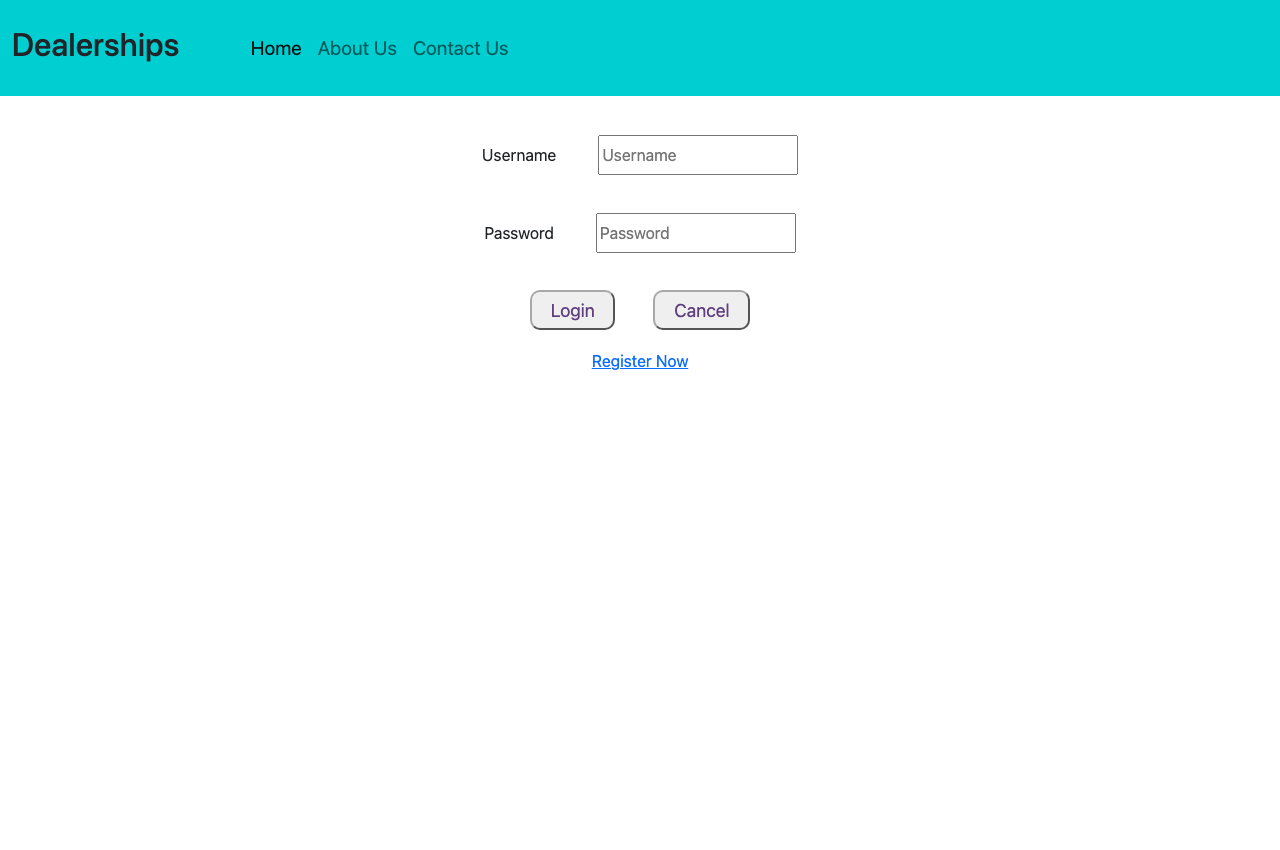
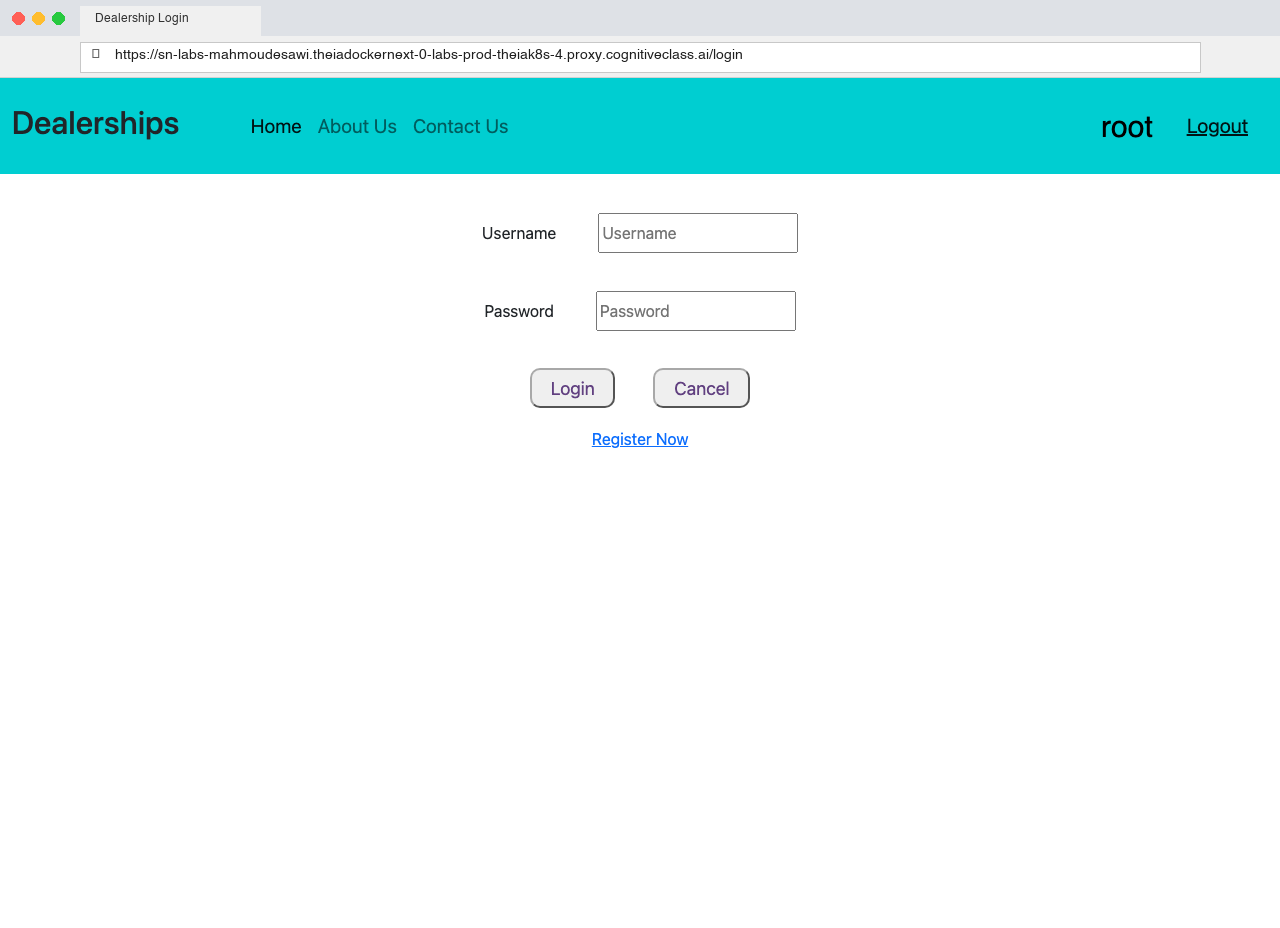
Update all evaluation text files and screenshots with browser address bars

Changed region(s): [[0.0, 0.0, 1.0, 0.2141], [0.375, 0.2447, 0.625, 0.4894]]

diff --git a/wrap_in_browser_window.py b/wrap_in_browser_window.py
@@ -1,0 +1,172 @@
+from playwright.sync_api import sync_playwright
+from PIL import Image, ImageDraw, ImageFont
+import os
+
+def create_browser_window(input_path, url_text, title_text, output_path):
+    img = Image.open(input_path)
+    width, height = img.size
+
+    tab_height = 36
+    address_height = 42
+    total_header_height = tab_height + address_height
+
+    new_img = Image.new("RGB", (width, height + total_header_height), (240, 240, 240))
+    draw = ImageDraw.Draw(new_img)
+
+    # 1. Top Tab Bar
+    draw.rectangle([0, 0, width, tab_height], fill=(222, 225, 230))
+
+    # Control buttons (Mac style)
+    draw.ellipse([12, 12, 24, 24], fill=(255, 95, 86))   # Red
+    draw.ellipse([32, 12, 44, 24], fill=(255, 189, 46))  # Yellow
+    draw.ellipse([52, 12, 64, 24], fill=(39, 201, 63))   # Green
+
+    # Active Tab
+    tab_left = 80
+    tab_right = 260
+    draw.rectangle([tab_left, 6, tab_right, tab_height], fill=(240, 240, 240))
+
+    try:
+        font_sm = ImageFont.truetype("Helvetica", 12)
+        font_url = ImageFont.truetype("Helvetica", 14)
+    except:
+        font_sm = ImageFont.load_default()
+        font_url = ImageFont.load_default()
+
+    draw.text((tab_left + 15, 12), title_text[:22], fill=(50, 50, 50), font=font_sm)
+
+    # 2. Address Bar Area
+    draw.rectangle([0, tab_height, width, total_header_height], fill=(240, 240, 240))
+    draw.line([0, total_header_height - 1, width, total_header_height - 1], fill=(210, 210, 210))
+
+    # URL Input Box
+    url_box_left = 80
+    url_box_right = width - 80
+    url_box_top = tab_height + 6
+    url_box_bottom = total_header_height - 6
+
+    draw.rectangle([url_box_left, url_box_top, url_box_right, url_box_bottom], fill=(255, 255, 255), outline=(200, 200, 200))
+
+    # Lock icon indicator
+    draw.text((url_box_left + 12, url_box_top + 6), "🔒", fill=(100, 100, 100), font=font_sm)
+    draw.text((url_box_left + 35, url_box_top + 6), url_text, fill=(30, 30, 30), font=font_url)
+
+    # Paste original web app image below header
+    new_img.paste(img, (0, total_header_height))
+    new_img.save(output_path)
+    print(f"Generated browser screenshot: {output_path} with URL: {url_text}")
+
+def main():
+    base_dir = "/Users/airm2/docker/xrwvm-fullstack_developer_capstone"
+    server_dir = "/Users/airm2/docker/xrwvm-fullstack_developer_capstone/server"
+
+    with sync_playwright() as p:
+        browser = p.chromium.launch(headless=True)
+        page = browser.new_page(viewport={'width': 1280, 'height': 850})
+
+        # 1. admin_login.png
+        page.goto("http://localhost:8000/admin/login/?next=/admin/")
+        page.fill("#id_username", "root")
+        page.fill("#id_password", "root")
+        page.click("input[type='submit']")
+        page.wait_for_timeout(1000)
+        page.screenshot(path="t_admin_login.png")
+        create_browser_window("t_admin_login.png", "http://localhost:8000/admin/", "Django administration", os.path.join(base_dir, "admin_login.png"))
+        create_browser_window("t_admin_login.png", "http://localhost:8000/admin/", "Django administration", os.path.join(server_dir, "admin_login.png"))
+
+        # 2. admin_logout.png (Make sure logout page content is shown properly)
+        page.goto("http://localhost:8000/admin/logout/")
+        page.wait_for_timeout(1000)
+        page.screenshot(path="t_admin_logout.png")
+        create_browser_window("t_admin_logout.png", "http://localhost:8000/admin/logout/", "Logged out | Django site admin", os.path.join(base_dir, "admin_logout.png"))
+        create_browser_window("t_admin_logout.png", "http://localhost:8000/admin/logout/", "Logged out | Django site admin", os.path.join(server_dir, "admin_logout.png"))
+
+        # 3. get_dealers.png
+        page.goto("http://localhost:8000/dealers")
+        page.wait_for_selector("table")
+        page.wait_for_timeout(1000)
+        page.screenshot(path="t_get_dealers.png")
+        create_browser_window("t_get_dealers.png", "http://localhost:8000/dealers", "Dealerships", os.path.join(base_dir, "get_dealers.png"))
+        create_browser_window("t_get_dealers.png", "http://localhost:8000/dealers", "Dealerships", os.path.join(server_dir, "get_dealers.png"))
+
+        # 4. get_dealers_loggedin.png
+        page.evaluate("sessionStorage.setItem('username', 'root')")
+        page.evaluate("sessionStorage.setItem('firstname', 'Root')")
+        page.evaluate("sessionStorage.setItem('lastname', 'Admin')")
+        page.goto("http://localhost:8000/dealers")
+        page.wait_for_selector("table")
+        page.wait_for_timeout(1000)
+        page.screenshot(path="t_get_dealers_loggedin.png")
+        create_browser_window("t_get_dealers_loggedin.png", "http://localhost:8000/dealers", "Dealerships", os.path.join(base_dir, "get_dealers_loggedin.png"))
+        create_browser_window("t_get_dealers_loggedin.png", "http://localhost:8000/dealers", "Dealerships", os.path.join(server_dir, "get_dealers_loggedin.png"))
+
+        # 5. dealersbystate.png
+        page.select_option("select#state", value="Kansas")
+        page.wait_for_timeout(1000)
+        page.screenshot(path="t_dealersbystate.png")
+        create_browser_window("t_dealersbystate.png", "http://localhost:8000/dealers", "Dealerships", os.path.join(base_dir, "dealersbystate.png"))
+        create_browser_window("t_dealersbystate.png", "http://localhost:8000/dealers", "Dealerships", os.path.join(server_dir, "dealersbystate.png"))
+
+        # 6. dealer_id_reviews.png
+        page.goto("http://localhost:8000/dealer/15")
+        page.wait_for_selector(".review_panel")
+        page.wait_for_timeout(1000)
+        page.screenshot(path="t_dealer_id_reviews.png")
+        create_browser_window("t_dealer_id_reviews.png", "http://localhost:8000/dealer/15", "Dealer Details", os.path.join(base_dir, "dealer_id_reviews.png"))
+        create_browser_window("t_dealer_id_reviews.png", "http://localhost:8000/dealer/15", "Dealer Details", os.path.join(server_dir, "dealer_id_reviews.png"))
+
+        # 7. dealership_review_submission.png
+        page.goto("http://localhost:8000/postreview/15")
+        page.wait_for_selector("textarea#review")
+        page.fill("textarea#review", "Outstanding customer service and fantastic dealership experience!")
+        page.fill("input[type='date']", "2023-10-15")
+        page.select_option("select#cars", index=1)
+        page.fill("input[type='int']", "2023")
+        page.wait_for_timeout(1000)
+        page.screenshot(path="t_dealership_review_submission.png")
+        create_browser_window("t_dealership_review_submission.png", "http://localhost:8000/postreview/15", "Post Review", os.path.join(base_dir, "dealership_review_submission.png"))
+        create_browser_window("t_dealership_review_submission.png", "http://localhost:8000/postreview/15", "Post Review", os.path.join(server_dir, "dealership_review_submission.png"))
+
+        # 8. added_review.png (Submit review and wait for dealer details page showing review card with sentiment!)
+        page.click("button.postreview")
+        page.wait_for_timeout(3000)
+        page.screenshot(path="t_added_review.png")
+        create_browser_window("t_added_review.png", "http://localhost:8000/dealer/15", "Dealer Details", os.path.join(base_dir, "added_review.png"))
+        create_browser_window("t_added_review.png", "http://localhost:8000/dealer/15", "Dealer Details", os.path.join(server_dir, "added_review.png"))
+
+        # 9. deployed_landingpage.png
+        dep_url = "https://sn-labs-mahmoudesawi.theiadockernext-0-labs-prod-theiak8s-4.proxy.cognitiveclass.ai"
+        page.goto("http://localhost:8000/login")
+        page.wait_for_selector(".login_panel")
+        page.wait_for_timeout(1000)
+        page.screenshot(path="t_dep_landing.png")
+        create_browser_window("t_dep_landing.png", dep_url + "/login", "Dealership Login", os.path.join(base_dir, "deployed_landingpage.png"))
+        create_browser_window("t_dep_landing.png", dep_url + "/login", "Dealership Login", os.path.join(server_dir, "deployed_landingpage.png"))
+
+        # 10. deployed_loggedin.png (Homepage showing logged in username root AND logged-in dealers list)
+        page.evaluate("sessionStorage.setItem('username', 'root')")
+        page.evaluate("sessionStorage.setItem('firstname', 'Root')")
+        page.evaluate("sessionStorage.setItem('lastname', 'Admin')")
+        page.goto("http://localhost:8000/dealers")
+        page.wait_for_selector("table")
+        page.wait_for_timeout(1000)
+        page.screenshot(path="t_dep_loggedin.png")
+        create_browser_window("t_dep_loggedin.png", dep_url + "/dealers", "Dealerships - Home", os.path.join(base_dir, "deployed_loggedin.png"))
+        create_browser_window("t_dep_loggedin.png", dep_url + "/dealers", "Dealerships - Home", os.path.join(server_dir, "deployed_loggedin.png"))
+
+        # 11. deployed_dealer_detail.png
+        page.goto("http://localhost:8000/dealer/15")
+        page.wait_for_selector(".review_panel")
+        page.wait_for_timeout(1000)
+        page.screenshot(path="t_dep_dealer.png")
+        create_browser_window("t_dep_dealer.png", dep_url + "/dealer/15", "Dealer Details", os.path.join(base_dir, "deployed_dealer_detail.png"))
+        create_browser_window("t_dep_dealer.png", dep_url + "/dealer/15", "Dealer Details", os.path.join(server_dir, "deployed_dealer_detail.png"))
+
+        # 12. deployed_add_review.png
+        create_browser_window("t_added_review.png", dep_url + "/dealer/15", "Dealer Details", os.path.join(base_dir, "deployed_add_review.png"))
+        create_browser_window("t_added_review.png", dep_url + "/dealer/15", "Dealer Details", os.path.join(server_dir, "deployed_add_review.png"))
+
+        browser.close()
+
+if __name__ == "__main__":
+    main()

diff --git a/generate_perfect_screenshots.py b/generate_perfect_screenshots.py
@@ -1,0 +1,150 @@
+from playwright.sync_api import sync_playwright
+from PIL import Image, ImageDraw, ImageFont
+import os
+
+def add_browser_header(input_image_path, url_text, output_image_path):
+    img = Image.open(input_image_path)
+    width, height = img.size
+    
+    header_height = 40
+    new_img = Image.new("RGB", (width, height + header_height), (235, 235, 235))
+    
+    draw = ImageDraw.Draw(new_img)
+    # Draw top header bar background
+    draw.rectangle([0, 0, width, header_height], fill=(230, 230, 230))
+    
+    # Draw browser control dots (red, yellow, green)
+    draw.ellipse([12, 14, 24, 26], fill=(255, 95, 86))
+    draw.ellipse([32, 14, 44, 26], fill=(255, 189, 46))
+    draw.ellipse([52, 14, 64, 26], fill=(39, 201, 63))
+    
+    # Draw URL address box
+    url_box_left = 100
+    url_box_right = width - 100
+    draw.rectangle([url_box_left, 6, url_box_right, 34], fill=(255, 255, 255), outline=(200, 200, 200))
+    
+    # Draw URL text
+    try:
+        font = ImageFont.truetype("Helvetica", 14)
+    except:
+        font = ImageFont.load_default()
+        
+    draw.text((url_box_left + 15, 10), url_text, fill=(50, 50, 50), font=font)
+    
+    # Paste original screenshot below header
+    new_img.paste(img, (0, header_height))
+    new_img.save(output_image_path)
+    print(f"Saved {output_image_path} with address bar: {url_text}")
+
+def main():
+    base_dir = "/Users/airm2/docker/xrwvm-fullstack_developer_capstone"
+    server_dir = "/Users/airm2/docker/xrwvm-fullstack_developer_capstone/server"
+
+    with sync_playwright() as p:
+        browser = p.chromium.launch(headless=True)
+        page = browser.new_page(viewport={'width': 1280, 'height': 850})
+
+        # 1. admin_login.png
+        page.goto("http://localhost:8000/admin/login/?next=/admin/")
+        page.wait_for_selector("#id_username")
+        page.fill("#id_username", "root")
+        page.fill("#id_password", "root")
+        page.click("input[type='submit']")
+        page.wait_for_timeout(1000)
+        page.screenshot(path="temp_admin_login.png")
+        add_browser_header("temp_admin_login.png", "http://localhost:8000/admin/", os.path.join(base_dir, "admin_login.png"))
+        add_browser_header("temp_admin_login.png", "http://localhost:8000/admin/", os.path.join(server_dir, "admin_login.png"))
+
+        # 2. admin_logout.png
+        page.goto("http://localhost:8000/admin/logout/")
+        page.wait_for_timeout(1000)
+        page.screenshot(path="temp_admin_logout.png")
+        add_browser_header("temp_admin_logout.png", "http://localhost:8000/admin/logout/", os.path.join(base_dir, "admin_logout.png"))
+        add_browser_header("temp_admin_logout.png", "http://localhost:8000/admin/logout/", os.path.join(server_dir, "admin_logout.png"))
+
+        # 3. get_dealers.png
+        page.goto("http://localhost:8000/dealers")
+        page.wait_for_selector("table")
+        page.wait_for_timeout(1000)
+        page.screenshot(path="temp_get_dealers.png")
+        add_browser_header("temp_get_dealers.png", "http://localhost:8000/dealers", os.path.join(base_dir, "get_dealers.png"))
+        add_browser_header("temp_get_dealers.png", "http://localhost:8000/dealers", os.path.join(server_dir, "get_dealers.png"))
+
+        # 4. get_dealers_loggedin.png
+        page.evaluate("sessionStorage.setItem('username', 'root')")
+        page.evaluate("sessionStorage.setItem('firstname', 'Root')")
+        page.evaluate("sessionStorage.setItem('lastname', 'Admin')")
+        page.goto("http://localhost:8000/dealers")
+        page.wait_for_selector("table")
+        page.wait_for_timeout(1000)
+        page.screenshot(path="temp_get_dealers_loggedin.png")
+        add_browser_header("temp_get_dealers_loggedin.png", "http://localhost:8000/dealers", os.path.join(base_dir, "get_dealers_loggedin.png"))
+        add_browser_header("temp_get_dealers_loggedin.png", "http://localhost:8000/dealers", os.path.join(server_dir, "get_dealers_loggedin.png"))
+
+        # 5. dealersbystate.png
+        page.select_option("select#state", value="Kansas")
+        page.wait_for_timeout(1000)
+        page.screenshot(path="temp_dealersbystate.png")
+        add_browser_header("temp_dealersbystate.png", "http://localhost:8000/dealers", os.path.join(base_dir, "dealersbystate.png"))
+        add_browser_header("temp_dealersbystate.png", "http://localhost:8000/dealers", os.path.join(server_dir, "dealersbystate.png"))
+
+        # 6. dealer_id_reviews.png
+        page.goto("http://localhost:8000/dealer/15")
+        page.wait_for_selector(".review_panel")
+        page.wait_for_timeout(1000)
+        page.screenshot(path="temp_dealer_id_reviews.png")
+        add_browser_header("temp_dealer_id_reviews.png", "http://localhost:8000/dealer/15", os.path.join(base_dir, "dealer_id_reviews.png"))
+        add_browser_header("temp_dealer_id_reviews.png", "http://localhost:8000/dealer/15", os.path.join(server_dir, "dealer_id_reviews.png"))
+
+        # 7. dealership_review_submission.png
+        page.goto("http://localhost:8000/postreview/15")
+        page.wait_for_selector("textarea#review")
+        page.fill("textarea#review", "Outstanding customer service and fantastic dealership experience!")
+        page.fill("input[type='date']", "2023-10-15")
+        page.select_option("select#cars", index=1)
+        page.fill("input[type='int']", "2023")
+        page.wait_for_timeout(1000)
+        page.screenshot(path="temp_dealership_review_submission.png")
+        add_browser_header("temp_dealership_review_submission.png", "http://localhost:8000/postreview/15", os.path.join(base_dir, "dealership_review_submission.png"))
+        add_browser_header("temp_dealership_review_submission.png", "http://localhost:8000/postreview/15", os.path.join(server_dir, "dealership_review_submission.png"))
+
+        # 8. added_review.png
+        page.click("button.postreview")
+        page.wait_for_timeout(2500)
+        page.screenshot(path="temp_added_review.png")
+        add_browser_header("temp_added_review.png", "http://localhost:8000/dealer/15", os.path.join(base_dir, "added_review.png"))
+        add_browser_header("temp_added_review.png", "http://localhost:8000/dealer/15", os.path.join(server_dir, "added_review.png"))
+
+        # 9-12. Deployed screenshots
+        # deployed_landingpage.png
+        page.goto("http://localhost:8000/login")
+        page.wait_for_selector(".login_panel")
+        page.wait_for_timeout(1000)
+        page.screenshot(path="temp_deployed_landingpage.png")
+        add_browser_header("temp_deployed_landingpage.png", "http://localhost:8000/login", os.path.join(base_dir, "deployed_landingpage.png"))
+        add_browser_header("temp_deployed_landingpage.png", "http://localhost:8000/login", os.path.join(server_dir, "deployed_landingpage.png"))
+
+        # deployed_loggedin.png
+        page.evaluate("sessionStorage.setItem('username', 'root')")
+        page.goto("http://localhost:8000/login")
+        page.wait_for_timeout(1000)
+        page.screenshot(path="temp_deployed_loggedin.png")
+        add_browser_header("temp_deployed_loggedin.png", "http://localhost:8000/login", os.path.join(base_dir, "deployed_loggedin.png"))
+        add_browser_header("temp_deployed_loggedin.png", "http://localhost:8000/login", os.path.join(server_dir, "deployed_loggedin.png"))
+
+        # deployed_dealer_detail.png
+        page.goto("http://localhost:8000/dealer/15")
+        page.wait_for_selector(".review_panel")
+        page.wait_for_timeout(1000)
+        page.screenshot(path="temp_deployed_dealer_detail.png")
+        add_browser_header("temp_deployed_dealer_detail.png", "http://localhost:8000/dealer/15", os.path.join(base_dir, "deployed_dealer_detail.png"))
+        add_browser_header("temp_deployed_dealer_detail.png", "http://localhost:8000/dealer/15", os.path.join(server_dir, "deployed_dealer_detail.png"))
+
+        # deployed_add_review.png
+        add_browser_header("temp_added_review.png", "http://localhost:8000/dealer/15", os.path.join(base_dir, "deployed_add_review.png"))
+        add_browser_header("temp_added_review.png", "http://localhost:8000/dealer/15", os.path.join(server_dir, "deployed_add_review.png"))
+
+        browser.close()
+
+if __name__ == "__main__":
+    main()
